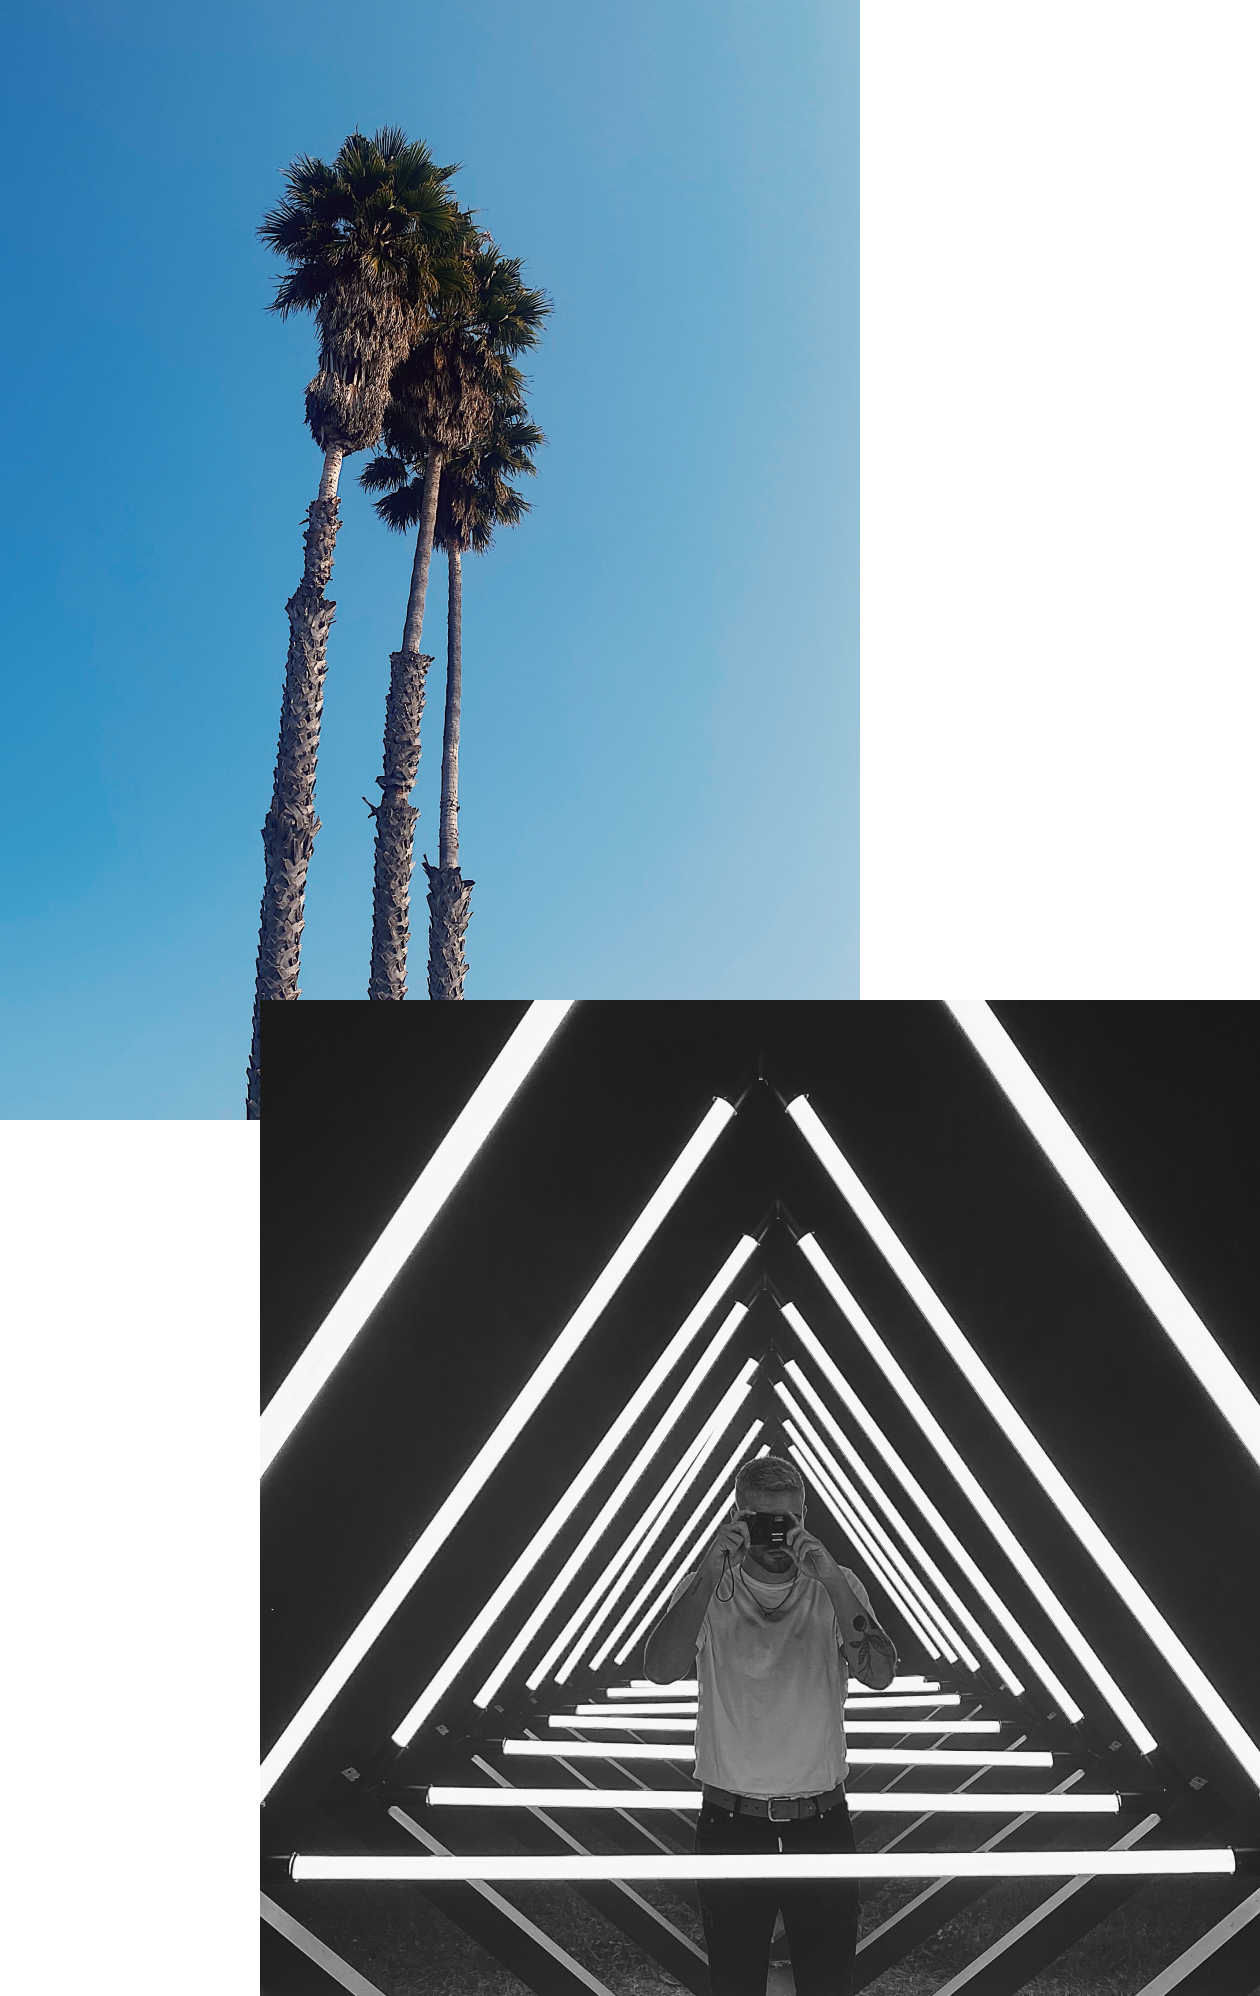
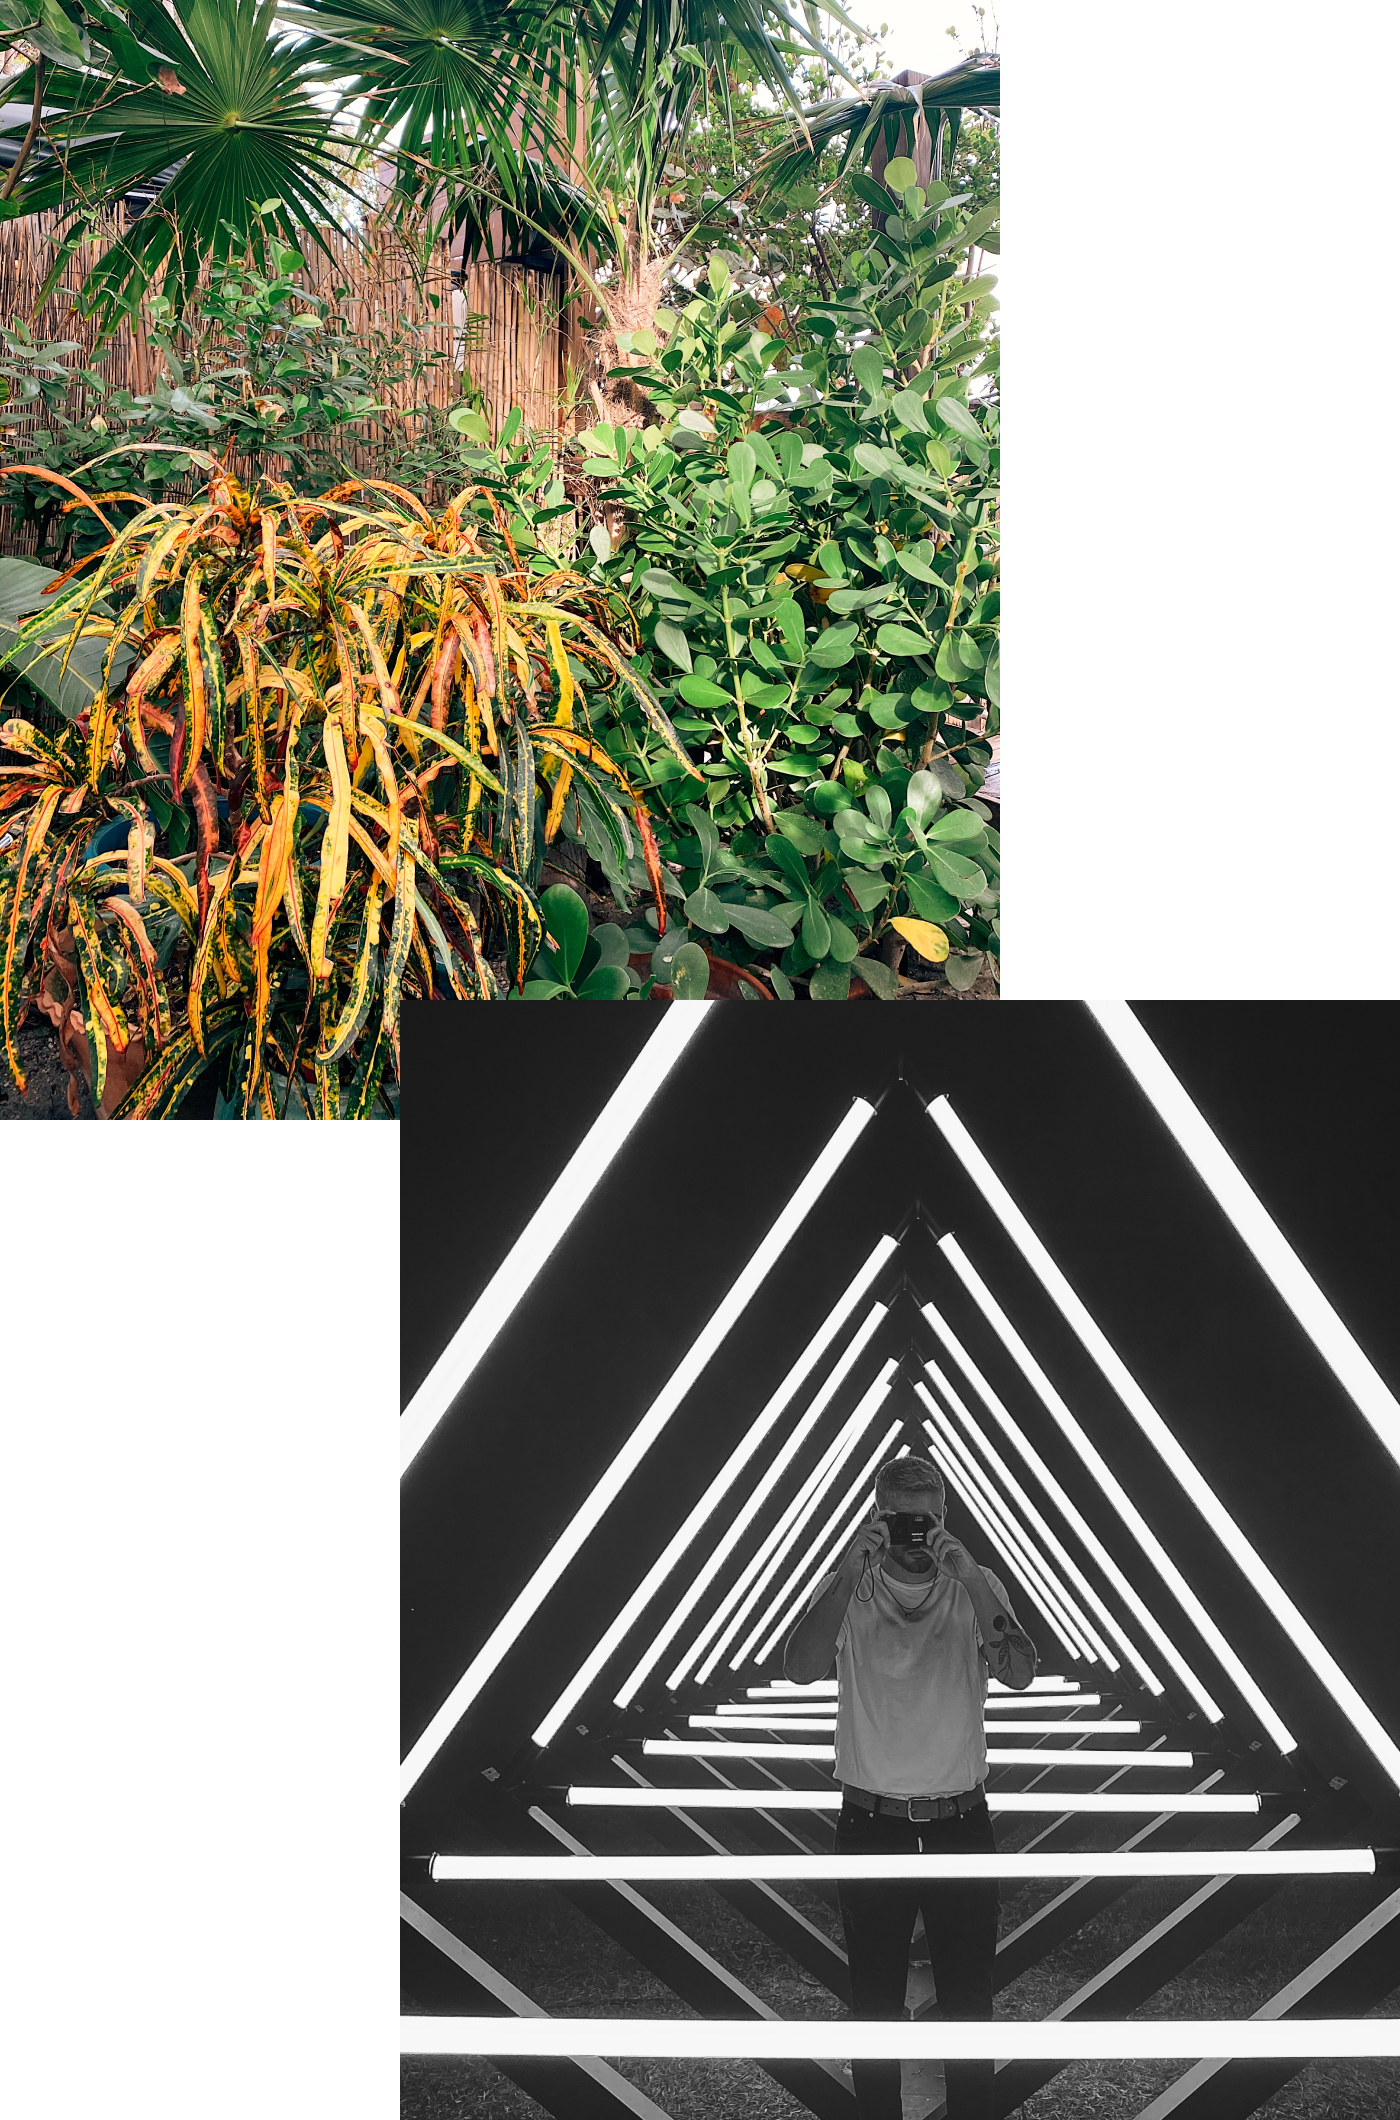
adding more content and images to the home page

diff --git a/index.html b/index.html
@@ -4,18 +4,24 @@ title: Product Designer
 ---
 
 <div class="header-right"></div>
+<div class="header-left"></div>
 <section class="home">
   <h1>
     Pedro <span class="emdash"></span>Carmo
   </h1>
-  <section class="about">
+  <section class="about-left">
     <h2>
-      Thanks for stopping by friend but this site is currently under construction.
+      A multi-disciplinary product designer made in São Paulo, Brasil.
     </h2>
-    <h4>
+  </section>
+  <section class="about-right">
+    <h3>Currently living in the foggy hills of San Francisco, Pedro serves as a Senior Product Designer on the foundational Messaging team at <a href="https://slack.com/" target="_blank">Slack</a>.</h3>
+    <h3>Before Slack, he designed at a few companies: <a href="https://envoy.com/" target="_blank">Envoy</a>, <a href="https://www.simple.com" target="_blank">Simple</a>, and <a href="https://www.kickstarter.com" target="_blank">Kickstarter</a> to name a few. For more detail: here’s his <a href="/resume.pdf" target="_blank">résumé</a>.</h3>
+    <h3>This website is still a work in progress so check back later for more. In the meantime, follow me on <a href="https://twitter.com/drocarmo" targer="_blank">Twitter</a>.</h3>
+  </section>
+    <!-- <h4>
       Follow me on <a href="https://twitter.com/drocarmo" target="_blank">Twitter</a> to stay updated.
     </h4>
-    <!-- <h2>Recent Work 🔨</h2>
     <p>
       I currently work at <a href="https://slack.com/" target="_blank">Slack</a> on our Search & Discovery product team, focusing primarily on the mobile experience for our customers.
     </p>
@@ -31,9 +37,9 @@ title: Product Designer
     </p>
     <p>
       I'm available for freelance work too, so don't hesitate to reach out. -->
-    <!-- </p> -->
-    <!-- <h2>Writing ✏</h2>
-    {% for post in site.posts %}
+    <!-- </p>
+    <h2>Writing ✏</h2> -->
+    <!-- {% for post in site.posts %}
     <section class="posts">
       <div class="post">
         <p>
@@ -42,15 +48,7 @@ title: Product Designer
         <h5 class="date">{{ post.date | date_to_long_string }}</h5>
       </div>
     </section>
-    {% endfor %}
-    <div style="clear: both;"></div>
-    <section class="contact" id="contact">
-      <h2>Contact ✉</h2>
-      <p>
-        You can find me as @drocarmo on <a href="https://twitter.com/drocarmo" target="_blank">Twitter</a>, <a href="https://instagram.com/drocarmo" target="_blank">Instagram</a>, <a href="https://medium.com/@drocarmo" target="_blank">Medium</a>, <a href="https://vsco.co/dro/images/1" target="_blank">VSCO</a>, <a href="https://github.com/drocarmo" target="_blank">Github</a>, etc.
-        If you're into sending emails, just <a href="mailto:pe@drocarmo.com?subject=Hey Pedro&amp;body=I was just on your website and..">remember to be nice</a>.
-      </p>
-    <section> -->
+    {% endfor %} -->
     <div style="clear: both;"></div>
   </section>
 </section>

diff --git a/css/main.css b/css/main.css
@@ -294,7 +294,7 @@ hr {
   clear: both; }
 
 :root {
-  --background: #f4f4f4;
+  --background: #fff;
   --text: #0e0e0e;
   --highlight: #f4f4f4; }
 
@@ -371,11 +371,25 @@ html.dark-theme, body.dark-theme {
     background-repeat: no-repeat;
     z-index: 2;
     top: 50px;
-    left: 50%;
+    left: 60%;
     overflow: hidden;
     position: absolute;
-    height: 120%;
-    width: 50%; } }
+    height: 80%;
+    width: 40%; } }
+
+@media screen and (min-width: 1200px) {
+  .header-left {
+    background-image: url("/assets/images/index-2.png");
+    background-position: top right;
+    background-size: contain;
+    background-repeat: no-repeat;
+    z-index: 2;
+    top: 800px;
+    left: 0px;
+    overflow: hidden;
+    position: absolute;
+    height: 80%;
+    width: 40%; } }
 
 .home {
   height: auto;
@@ -385,7 +399,7 @@ html.dark-theme, body.dark-theme {
     .home {
       position: relative;
       width: 100%;
-      padding: 60px;
+      padding: 20px 60px;
       z-index: 1000; }
       .home span.emdash {
         content: "";
@@ -396,10 +410,22 @@ html.dark-theme, body.dark-theme {
         width: 300px;
         height: 15px;
         background-color: #0e0e0e; } }
-  @media screen and (min-width: 700px) {
-    .home .about {
+  @media screen and (min-width: 1200px) {
+    .home .about-left {
       width: 50%;
-      padding: 0px; } }
+      padding: 0px; }
+      .home .about-left h2 {
+        font-size: 60px; } }
+  @media screen and (min-width: 1200px) {
+    .home .about-right {
+      margin-top: 400px;
+      width: 50%;
+      left: 50%; }
+      .home .about-right h3 {
+        font-size: 40px;
+        font-weight: 700; }
+        .home .about-right h3 a:hover {
+          box-shadow: inset 0 70px #0e0e0e; } }
 
 @media screen and (min-width: 1200px) {
   .posts {

diff --git a/css/sass/_home.scss b/css/sass/_home.scss
@@ -13,11 +13,32 @@
     background-repeat: no-repeat;
     z-index: 2;
     top: 50px;
-    left: 50%;
+    left: 60%;
     overflow: hidden;
     position: absolute;
-    height: 120%;
-    width: 50%;
+    height: 80%;
+    width: 40%;
+  }
+}
+
+.header-left {
+  @include screen-medium {
+    // height: 820px;
+    // width: 874px;
+  }
+
+  @include screen-large {
+    background-image: url('/assets/images/index-2.png');
+    background-position: top right;
+    background-size: contain;
+    background-repeat: no-repeat;
+    z-index: 2;
+    top: 800px;
+    left: 0px;
+    overflow: hidden;
+    position: absolute;
+    height: 80%;
+    width: 40%;
   }
 }
 
@@ -29,7 +50,7 @@
   @include screen-large {
     position: relative;
     width: 100%;
-    padding: 60px;
+    padding: 20px 60px;
     z-index: 1000;
     span.emdash {
       content: "";
@@ -43,14 +64,29 @@
     }
   }
 
-  .about {
-
-    @include screen-medium {
+  .about-left {
+    @include screen-large {
       width: 50%;
       padding: 0px;
-    }
-    @include screen-large {
 
+      h2 {
+      font-size: 60px;
+      }
+    }
+  }
+  .about-right {
+    @include screen-large {
+      margin-top: 400px;
+      width: 50%;
+      left: 50%;
+
+      h3 {
+        font-size: 40px;
+        font-weight: $type-weight-bold;
+        a:hover {
+          box-shadow: inset 0 70px $color-black;
+        }
+      }
     }
   }
 }

diff --git a/css/sass/_base.scss b/css/sass/_base.scss
@@ -1,7 +1,7 @@
 // Base declarations
 
 :root {
-  --background: #f4f4f4;
+  --background: #fff;
   --text: #0e0e0e;
   --highlight: #f4f4f4;
 }

diff --git a/css/sass/_all.scss b/css/sass/_all.scss
@@ -5,7 +5,6 @@
 @import "grid";
 @import "type";
 @import "base";
-@import "nav";
 @import "home";
 @import "blog";
 @import "code";
